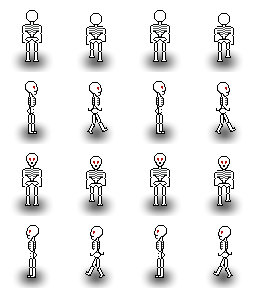
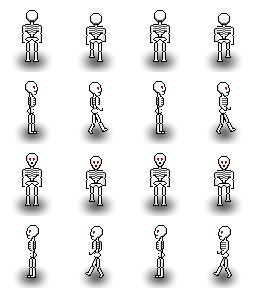
Sprite outlines & rendering order

diff --git a/enemy.js b/enemy.js
@@ -1,10 +1,10 @@
-import { ctx, fixedDeltaTime, game, globalPause, isMultiplayer, tileSize } from "./main.js";
+import { bigBombOverlay, ctx, fixedDeltaTime, game, globalPause, isMultiplayer, tileSize } from "./main.js";
 import { Direction, players } from "./player.js";
 import { dfs, lerp, getRandomWalkablePointInRadius, getTileFromWorldLocation, aabbCollision, getDistanceToEuclidean } from "./utils.js";
 import { requestPath } from "./pathfinder.js";
 import { tilesWithBombs } from "./bomb.js";
 import { getMusicalTimeout, playAudio, randomSfx, sfxs } from "./audio.js";
-import { EnemyDeathAnimation, deathRow } from "./animations.js";
+import { EnemyDeathAnimation, deathRow, isBigBombOver } from "./animations.js";
 import { spriteSheets } from "./spritesheets.js";
 import { createFloatingText } from "./particles.js";
 import { isMobile } from "./mobile.js";
@@ -92,7 +92,11 @@ class Enemy
 
         switch(this.enemyType) {
             case enemyType.ZOMBIE: {
-                this.spriteSheet.src = spriteSheets.zombie;
+                if (bigBombOverlay && !isBigBombOver) {
+                    this.spriteSheet.src = spriteSheets.zombie_outline;
+                } else {
+                    this.spriteSheet.src = spriteSheets.zombie;
+                }
                 this.movementMode = movementMode.PATROL;
                 this.speed = 1000;
                 this.score = 100;
@@ -100,7 +104,11 @@ class Enemy
                 break;
             }
             case enemyType.GHOST: {
-                this.spriteSheet.src = spriteSheets.ghost;
+                if (bigBombOverlay && !isBigBombOver) {
+                    this.spriteSheet.src = spriteSheets.ghost_outline;
+                } else {
+                    this.spriteSheet.src = spriteSheets.ghost;
+                }
                 this.movementMode = movementMode.ROAM;
                 this.animationSpeed = 400;
                 this.speed = 600;
@@ -109,7 +117,11 @@ class Enemy
                 break;
             }
             case enemyType.SKELETON: {
-                this.spriteSheet.src = spriteSheets.skeleton;
+                if (bigBombOverlay && !isBigBombOver) {
+                    this.spriteSheet.src = spriteSheets.skeleton_outline;
+                } else {
+                    this.spriteSheet.src = spriteSheets.skeleton;
+                }
                 this.movementMode = movementMode.PATROL;
                 this.speed = 400;
                 this.score = 500;
@@ -117,7 +129,11 @@ class Enemy
                 break;
             }
             case enemyType.WITCH: {
-                this.spriteSheet.src = spriteSheets.witch;
+                if (bigBombOverlay && !isBigBombOver) {
+                    this.spriteSheet.src = spriteSheets.witch_outline;
+                } else {
+                    this.spriteSheet.src = spriteSheets.witch;
+                }
                 this.movementMode = movementMode.FOLLOW;
                 this.speed = 900;
                 this.score = 350;
@@ -141,12 +157,48 @@ class Enemy
                 break;
             }
         }
+        switch(this.enemyType) {
+            case enemyType.GHOST: {
+                this.spriteSheet.src = spriteSheets.ghost;
+                break;
+            }
+        }
+        switch(this.enemyType) {
+            case enemyType.SKELETON: {
+                this.spriteSheet.src = spriteSheets.skeleton;
+                break;
+            }
+        }
+        switch(this.enemyType) {
+            case enemyType.WITCH: {
+                this.spriteSheet.src = spriteSheets.witch;
+                break;
+            }
+        }
     }
 
     showOutline() {
         switch(this.enemyType) {
             case enemyType.ZOMBIE: {
                 this.spriteSheet.src = spriteSheets.zombie_outline;
+                break;
+            }
+        }
+        switch(this.enemyType) {
+            case enemyType.GHOST: {
+                this.spriteSheet.src = spriteSheets.ghost_outline;
+                break;
+            }
+        }
+        switch(this.enemyType) {
+            case enemyType.SKELETON: {
+                this.spriteSheet.src = spriteSheets.skeleton_outline;
+                break;
+            }
+        }
+        switch(this.enemyType) {
+            case enemyType.WITCH: {
+                this.spriteSheet.src = spriteSheets.witch_outline;
                 break;
             }
         }
@@ -172,7 +224,6 @@ class Enemy
             case enemyType.SKELETON: {
                 this.movementMode = movementMode.PATROL;
                 this.patrol();
-                //this.followPlayer();
                 break;
             }
         }
@@ -386,7 +437,7 @@ class Enemy
         if (!this.mushroomInterval) {
             this.mushroomInterval = setInterval(() => {
                 this.dropMushroom();
-            }, 10000);
+            }, 13000);
         }
     }
 

diff --git a/main.js b/main.js
@@ -1,7 +1,7 @@
 ////////////////////
 // Imports
 import { renderWalls, renderFloor } from "./level.js";
-import { EntranceAnimation, ExitAnimation, locBlinkingAnimation, LevelHeaderAnimation, GameOverAnimation, DeathReasonAnimation, renderEnemyDeaths, TutorialAnimation, BigBombAnimation, FadeTransition } from "./animations.js";
+import { EntranceAnimation, ExitAnimation, locBlinkingAnimation, LevelHeaderAnimation, GameOverAnimation, DeathReasonAnimation, renderEnemyDeaths, TutorialAnimation, BigBombAnimation, FadeTransition, isBigBombOver } from "./animations.js";
 import { renderPickups } from "./pickups.js";
 import { renderPlayer } from "./player.js";
 import { renderEnemies } from "./enemy.js";
@@ -109,12 +109,23 @@ function Render(timeStamp)
                 renderPickups();
             }
             renderBombs();
-            renderWalls();
             renderPlayer(timeStamp);
+            if (!bigBombOverlay) {
+                renderEnemies(timeStamp);
+            }
+            else if (bigBombOverlay && isBigBombOver) {
+                renderEnemies(timeStamp);
+            }
+            // We want to render the walls here so that the shadows go under them
+            renderWalls();
+
             if (bigBombOverlay && !isMultiplayer) {
                 bigBomb.render();
             }
-            renderEnemies(timeStamp);
+            // Enemies outlines rendered on top of the overlay
+            if (bigBombOverlay && !isBigBombOver) {
+                renderEnemies(timeStamp);
+            }
             locBlinkers.render();
             renderPVPBlinkers();
             if (showDoor && !isMultiplayer) {

diff --git a/gamestate.js b/gamestate.js
@@ -8,6 +8,7 @@ import { level, exit, levelHeader, entrance, gameOverText, setGlobalPause, tutor
 import { showGameOverMenu, updateLevelDisplay, updateScoreDisplay } from "./page.js";
 import { clearPlayers, players, resetPlayerPositions, spawnPlayers } from "./player.js";
 import { createTiles, exitLocation} from "./tile.js";
+import { isMobile } from "./mobile.js";
 
 export let pause = false;
 
@@ -99,8 +100,10 @@ export class Game {
             
             // Enemies show only outlines during the big bomb overlay
             if (bigBombOverlay && this.level === 1 && !this.firstBombExploded) {
-                setTextures("limbo");
-                initHardWallsCanvas();
+                if (isMobile) {
+                    setTextures("limbo");
+                    initHardWallsCanvas();
+                }
                 enemies.forEach(enemy => {
                     enemy.showOutline();
                 });

diff --git a/animations.js b/animations.js
@@ -511,6 +511,7 @@ export class TutorialAnimation {
     }
 }
 
+export let isBigBombOver = false;
 export class BigBombAnimation {
     constructor() {
         this.visible = true;
@@ -536,8 +537,11 @@ export class BigBombAnimation {
     }
 
     playShatter() {
-        setTextures();
-        initHardWallsCanvas();
+        // The first level has special textures on mobile
+        if (isMobile) {
+            setTextures();
+            initHardWallsCanvas();
+        }
         
         let shatter = setInterval(() => {
             if (this.currentFrame < this.frames) {
@@ -552,6 +556,7 @@ export class BigBombAnimation {
                 enemies.forEach(enemy => {
                     enemy.showSprite();
                 });
+                isBigBombOver = true;
             }
         }, this.animationMs);
     }

diff --git a/spritesheets.js b/spritesheets.js
@@ -9,10 +9,13 @@ async function preLoadSpriteSheets() {
 
         zombie: "./assets/enemies/zombie.png",
         ghost: "./assets/enemies/ghost.png",
-        skeleton: "./assets/enemies/skeleton2.png",
+        skeleton: "./assets/enemies/skeleton.png",
         witch: "./assets/enemies/witch.png",
 
         zombie_outline: "./assets/enemies/zombie_outline.png",
+        ghost_outline: "./assets/enemies/ghost_outline.png",
+        skeleton_outline: "./assets/enemies/skeleton_outline.png",
+        witch_outline: "./assets/enemies/witch_outline.png",
 
         zombie_death_back:  "./assets/deaths/zombie_death_back.png",
         zombie_death_front: "./assets/deaths/zombie_death_front.png",
